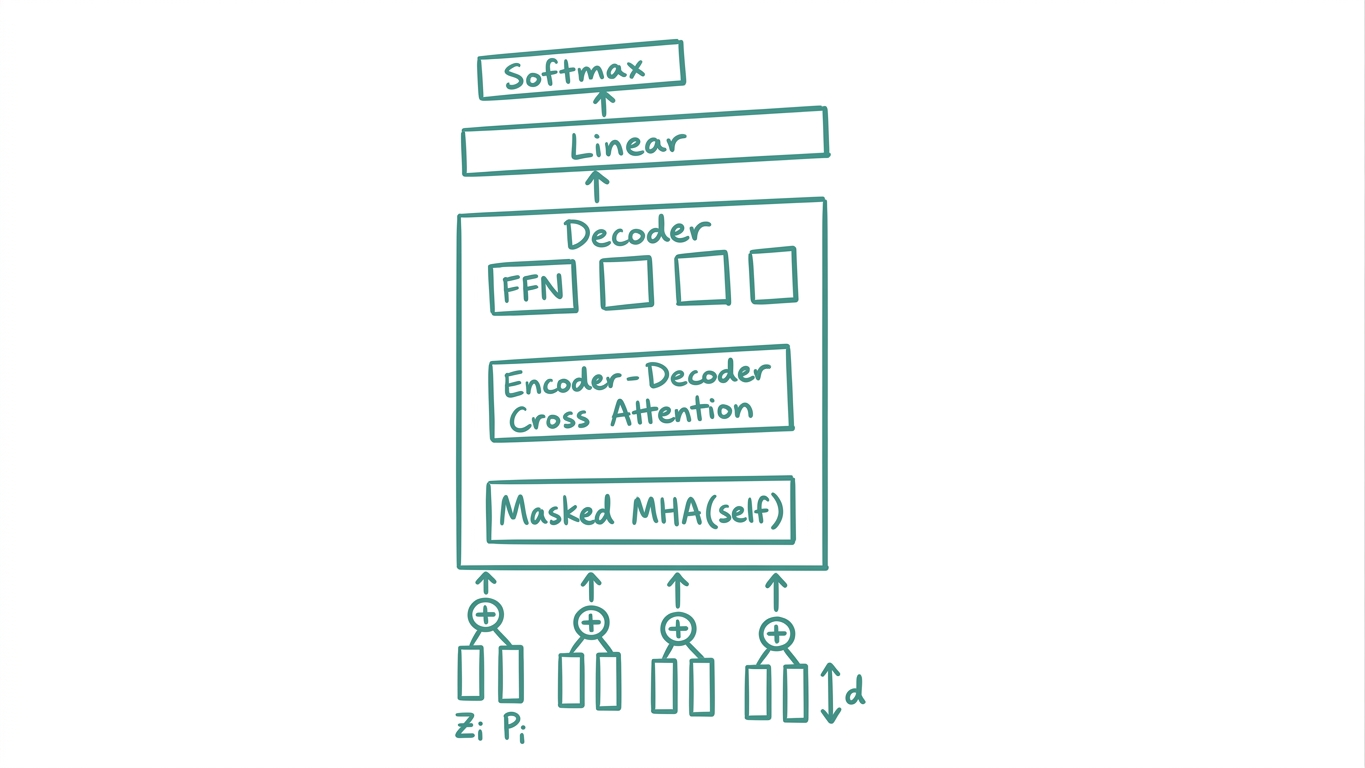
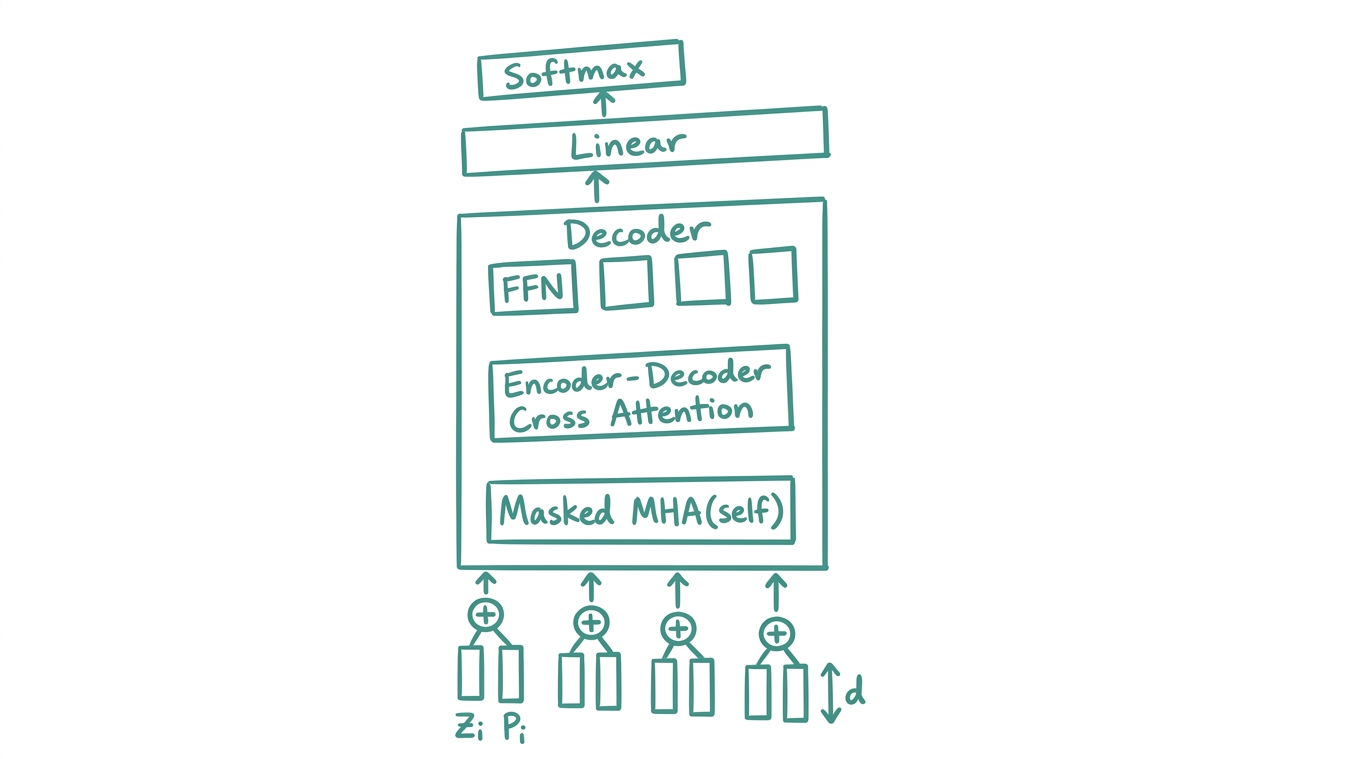
edit transformer blogpost

Changed region(s): [[0.3091, 0.0303, 0.649, 0.9697]]

diff --git a/_posts/2026-04-17-transformers-overview.md b/_posts/2026-04-17-transformers-overview.md
@@ -1,8 +1,8 @@
 ---
 layout: post
 comments: true
-title: "Quick Overview of Transformers"
-excerpt: Notes on the Transformer architecture covering sequence-to-sequence models, tokenization, attention, multi-head attention, encoders, decoders, masked attention, and cross attention.
+title: "Transformers"
+excerpt: Quick overview of the Transformer architecture covering tokenization, attention, multi-head attention, encoders, decoders, masked attention, and cross attention.
 date: 2026-04-17
 mathjax: true
 ---
@@ -42,16 +42,15 @@ Two approaches to representing input text:
 - No semantic similarity or meaning of words encoded.
 
 **2. Token embedding**
-
-![token embedding](/assets/images/2026/transformers/token-embedding.png)
-
 - Encodes semantic similarity between words.
 - Embedding matrix is **learned** (Lookup Table).
 - Each token embedding is stored as a **column vector**.
 
-$$
+![token embedding](/assets/images/2026/transformers/token-embedding.png)
+
+<!-- $$
 \underbrace{\begin{bmatrix} 0.5 \\ 2.7 \\ 1.2 \\ -0.2 \end{bmatrix}}_{d} = W_E \underbrace{\begin{bmatrix} 1 \\ 0 \\ \vdots \\ 0 \end{bmatrix}}_{\text{\# tokens}}
-$$
+$$ -->
 
 $$
 \begin{aligned}
